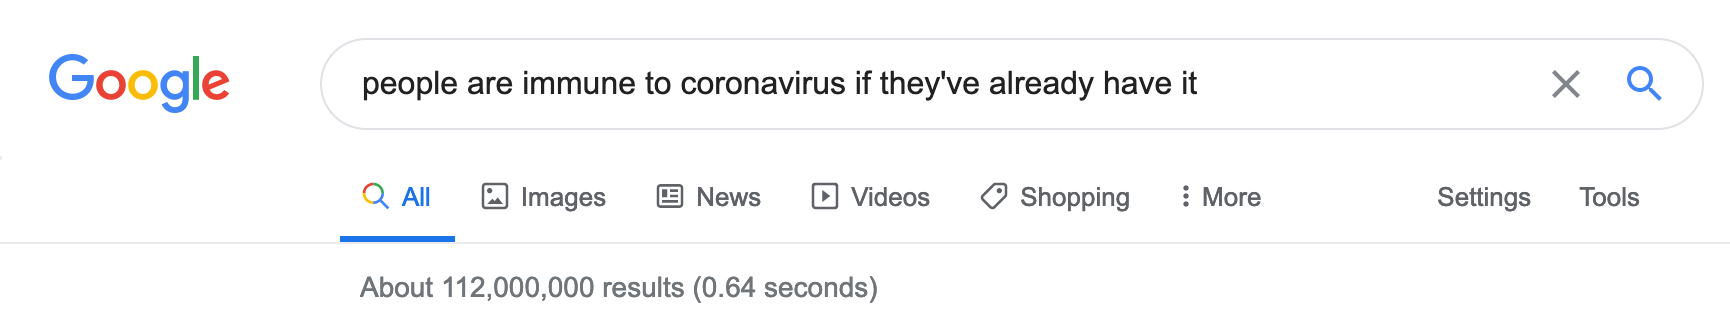
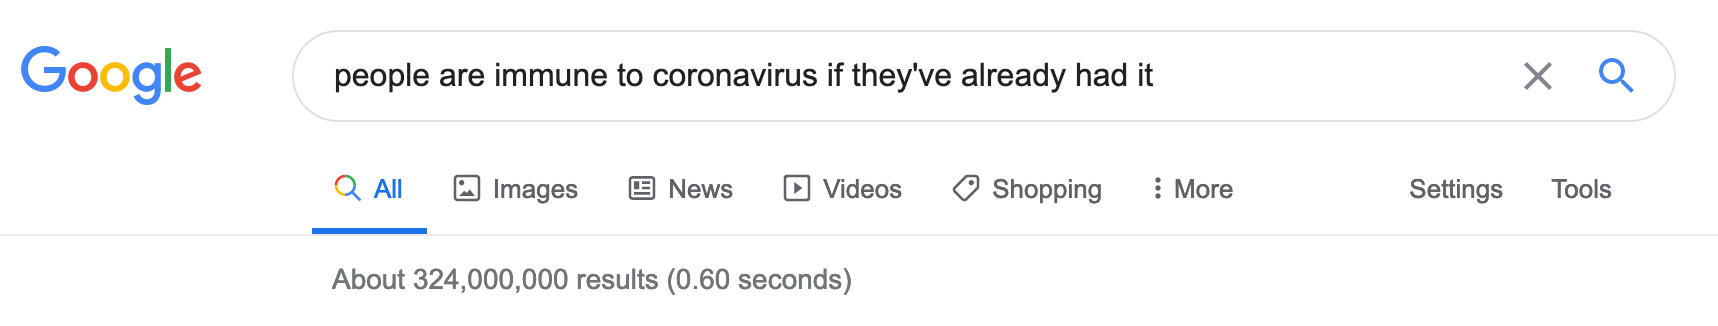
change to claim

diff --git a/client/src/Containers/App/App.js b/client/src/Containers/App/App.js
@@ -21,18 +21,18 @@ const App = () => (
         <Instruction stepCount={2} headline={<h1>Extract the tweet's central claim</h1>} content={
           <div>
             <p>Using IBM Watson, we analysed the tweet to identify its main argument: </p>
-            <div className="Quote">"People are immune to Coronavirus if they've already have it"</div>
+            <div className="Quote">"People are immune to Coronavirus if they've already had it"</div>
           </div>} />
         <Instruction stepCount={3} headline={<h1>Find related articles</h1>} content={
           <div>
-            <p>We searched on Google for related articles. We found over 112 million results!</p>
+            <p>We searched on Google for related articles. We found over 324 million results!</p>
             <div className="ImgContainer">
               <img src="search.png"/>
             </div>
           </div>} />
         <Instruction stepCount={4} headline={<h1>Refine related articles</h1>} content={
           <div className="List">
-            <p>Of these 112 million results, we select the most trustworthy articles, using this criteria:</p>
+            <p>Of these 324 million results, we select the most trustworthy articles, using this criteria:</p>
             <ul>
               <li>Relevance</li>
               <li>Recentness</li>

diff --git a/extension/hitchhikers.js b/extension/hitchhikers.js
@@ -126,7 +126,7 @@ const updateModalAndShow = (score, classification, claim) => {
   // Update sources that agree
   const [agreeContent] = modal.getElementsByClassName('modal-content-agree');
   const [agreeTitle] = agreeContent.getElementsByClassName('modal-content-title');
-  agreeTitle.textContent = 'People are immune to Coronavirus if they\'ve already have it';
+  agreeTitle.textContent = 'People are immune to Coronavirus if they\'ve already had it';
   agreeTitle.href = '';
   const [agreeAuthor] = agreeContent.getElementsByClassName('modal-content-author');
   agreeAuthor.textContent = 'Sky News';
